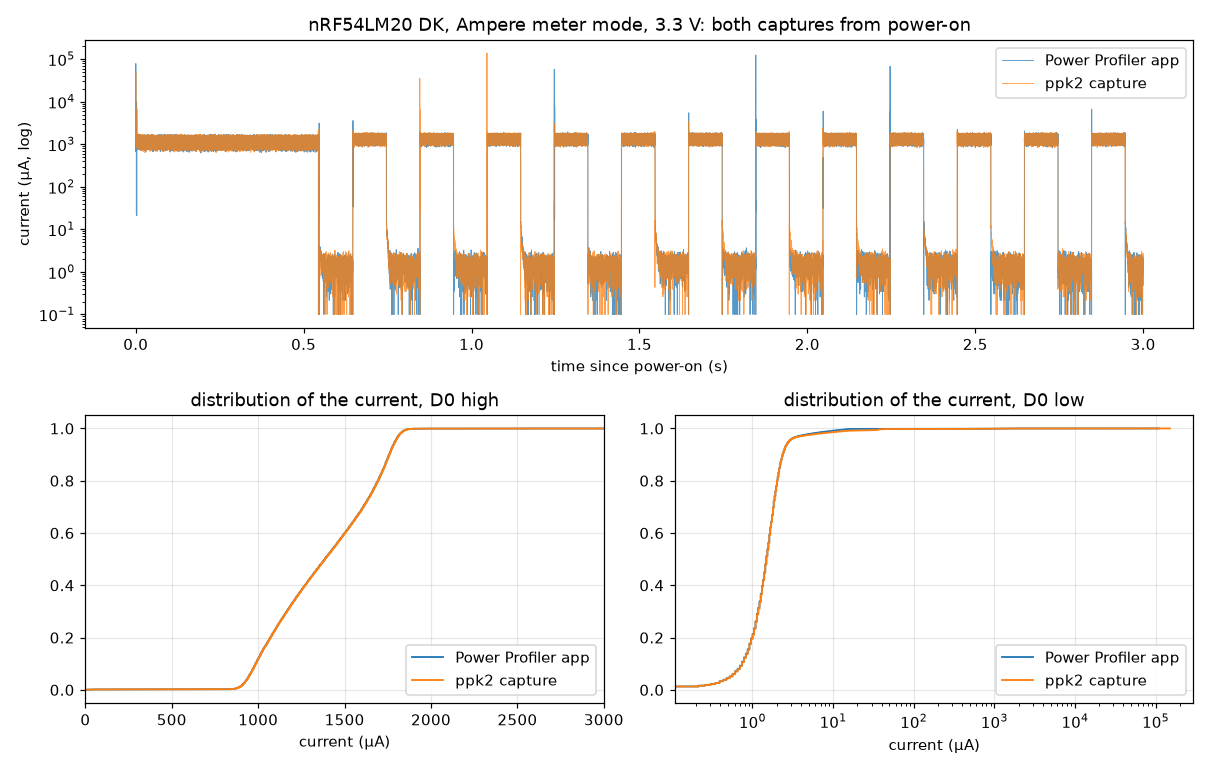
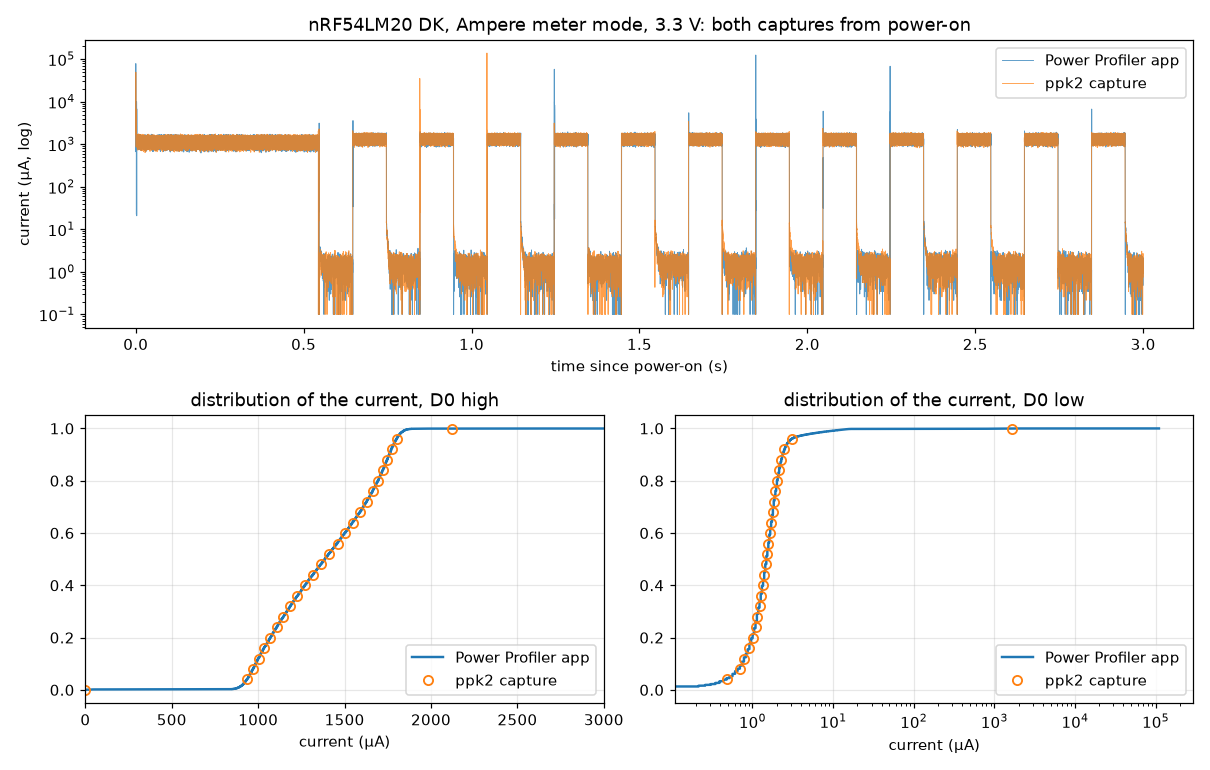
docs(validation): one distribution as a line, one as markers
The two captures lie on each other, so the second curve hid the
first. ppk2 capture's is 25 open markers along the app's line.

diff --git a/validation/evidence/bench_dut/make_plots.py b/validation/evidence/bench_dut/make_plots.py
@@ -30,11 +30,30 @@ MODES = (
 LABELS = (("app", "Power Profiler app"), ("ppk2_1", "ppk2 capture"))
 
 
-def ecdf(ax: plt.Axes, samples: np.ndarray, label: str) -> None:
-    """Plot the empirical CDF of ``samples``, thinned to 20,000 points."""
+def ecdf(ax: plt.Axes, samples: np.ndarray, label: str, *, as_markers: bool) -> None:
+    """Plot the empirical CDF of ``samples``, thinned to 20,000 points.
+
+    The two captures lie on each other, so one is a line and the other
+    25 open markers, evenly spaced along the distribution.
+    """
     xs = np.sort(samples)
     xs = xs[:: max(1, len(xs) // 20_000)]
-    ax.plot(xs, np.arange(len(xs)) / len(xs), label=label, linewidth=1.2)
+    ys = np.arange(len(xs)) / len(xs)
+    if as_markers:
+        ax.plot(
+            xs,
+            ys,
+            label=label,
+            linestyle="none",
+            marker="o",
+            markersize=6,
+            markerfacecolor="none",
+            markeredgewidth=1.2,
+            markevery=max(1, len(xs) // 25),
+            color="C1",
+        )
+    else:
+        ax.plot(xs, ys, label=label, linewidth=1.6, color="C0")
 
 
 LEAK_UA = 20_000  # a sample above this at a wake-up is one the spike filter left in
@@ -109,8 +128,8 @@ def main() -> None:
             # From power-on, 3 s, one point in ten.
             shown = np.maximum(ua[:300_000:10], 0.1)
             ax_t.plot(np.arange(len(shown)) / 10_000, shown, label=label, linewidth=0.6, alpha=0.75)
-            ecdf(ax_h, ua[SKIP:][d0[SKIP:]], label)
-            ecdf(ax_l, ua[SKIP:][~d0[SKIP:]], label)
+            ecdf(ax_h, ua[SKIP:][d0[SKIP:]], label, as_markers=name != "app")
+            ecdf(ax_l, ua[SKIP:][~d0[SKIP:]], label, as_markers=name != "app")
         ax_t.set_yscale("log")
         ax_t.set_xlabel("time since power-on (s)")
         ax_t.set_ylabel("current (µA, log)")
